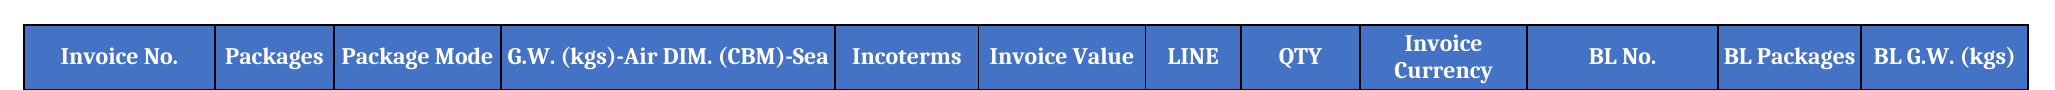
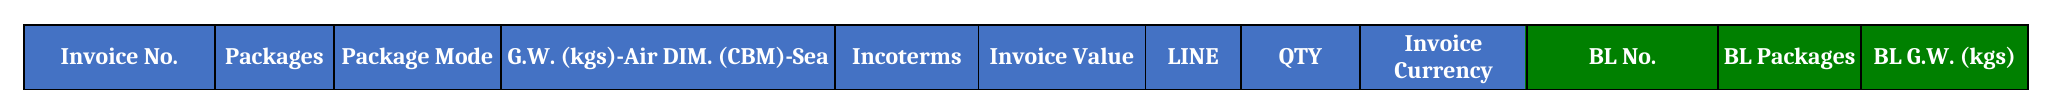
Color Summary BL headers green.

Changed region(s): [[0.7163, 0.2889, 0.9966, 1.0]]

diff --git a/tests/test_export.py b/tests/test_export.py
@@ -330,8 +330,8 @@ def test_collect_pdfs_dir_and_files(tmp_path: Path):
     assert errs == []
 
 
-def test_summary_bl_columns_far_right_and_unified_header_style(tmp_path: Path):
-    """BL trio is last on Summary; every header cell shares one fill/font/align."""
+def test_summary_bl_columns_far_right_and_green_header_style(tmp_path: Path):
+    """BL trio is last on Summary; BL headers are green and others stay blue."""
     path = tmp_path / "styled.xlsx"
     write_xlsx(SAMPLE, path)
     wb = load_workbook(path)
@@ -353,25 +353,26 @@ def test_summary_bl_columns_far_right_and_unified_header_style(tmp_path: Path):
         "BL Packages",
         "BL G.W. (kgs)",
     ]
-    fills = set()
-    bolds = set()
-    colors = set()
-    aligns = set()
-    for cell in ws[1]:
-        if cell.value is None:
-            continue
-        fills.add(cell.fill.fgColor.rgb if cell.fill.fgColor else None)
-        bolds.add(cell.font.bold)
-        rgb = None
-        if cell.font.color is not None and getattr(cell.font.color, "type", None) == "rgb":
-            rgb = cell.font.color.rgb
-        colors.add(rgb)
-        aligns.add(cell.alignment.horizontal)
-    assert len(fills) == 1
-    assert fills.pop().endswith("4472C4")
-    assert bolds == {True}
-    assert all(c and c.endswith("FFFFFF") for c in colors)
-    assert aligns == {"center"}
+    fills = {
+        cell.value: cell.fill.fgColor.rgb
+        for cell in ws[1]
+        if cell.value is not None
+    }
+    assert all(fills[name].endswith("4472C4") for name in headers[:-3])
+    assert all(fills[name].endswith("008000") for name in headers[-3:])
+    assert all(cell.font.bold for cell in ws[1] if cell.value is not None)
+    assert all(
+        cell.font.color is not None
+        and cell.font.color.type == "rgb"
+        and cell.font.color.rgb.endswith("FFFFFF")
+        for cell in ws[1]
+        if cell.value is not None
+    )
+    assert all(
+        cell.alignment.horizontal == "center"
+        for cell in ws[1]
+        if cell.value is not None
+    )
 
 
 def test_template_summary_order_matches_export():

diff --git a/src/invoice_extractor/export.py b/src/invoice_extractor/export.py
@@ -210,16 +210,25 @@ def _clear_data_rows(ws) -> None:
 
 
 
-# Unified Summary (and sheet) header look — blue fill / white bold / centered.
+# Unified header look — blue fill / white bold / centered, with green BL headers
+# on the Summary sheet to distinguish the arrival-notice values.
 _HEADER_FILL_HEX = "4472C4"
+_BL_HEADER_FILL_HEX = "008000"
 _HEADER_FONT_COLOR = "FFFFFF"
 _AUTHOR = "Peter Yang"
+_SUMMARY_BL_HEADERS = {"BL No.", "BL Packages", "BL G.W. (kgs)"}
 
 
 def _header_fill():
     from openpyxl.styles import PatternFill
 
     return PatternFill(fill_type="solid", fgColor=_HEADER_FILL_HEX)
+
+
+def _bl_header_fill():
+    from openpyxl.styles import PatternFill
+
+    return PatternFill(fill_type="solid", fgColor=_BL_HEADER_FILL_HEX)
 
 
 def _header_font():
@@ -242,8 +251,9 @@ def _header_border():
 
 
 def _apply_header_style(ws, ncols: int | None = None) -> None:
-    """Apply one shared header style to row 1 (no special BL-only styling)."""
+    """Apply the standard header style, with green BL headers on Summary."""
     fill = _header_fill()
+    bl_fill = _bl_header_fill()
     font = _header_font()
     align = _header_alignment()
     border = _header_border()
@@ -252,7 +262,7 @@ def _apply_header_style(ws, ncols: int | None = None) -> None:
         cell = ws.cell(1, i)
         if cell.value is None:
             continue
-        cell.fill = fill
+        cell.fill = bl_fill if ws.title == SUMMARY_SHEET and cell.value in _SUMMARY_BL_HEADERS else fill
         cell.font = font
         cell.alignment = align
         cell.border = border
